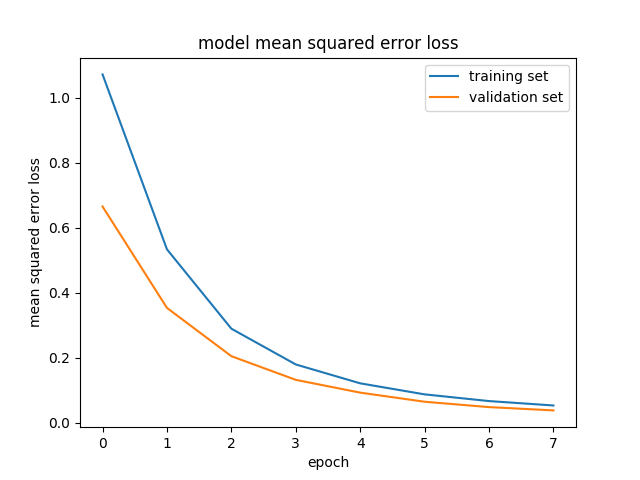
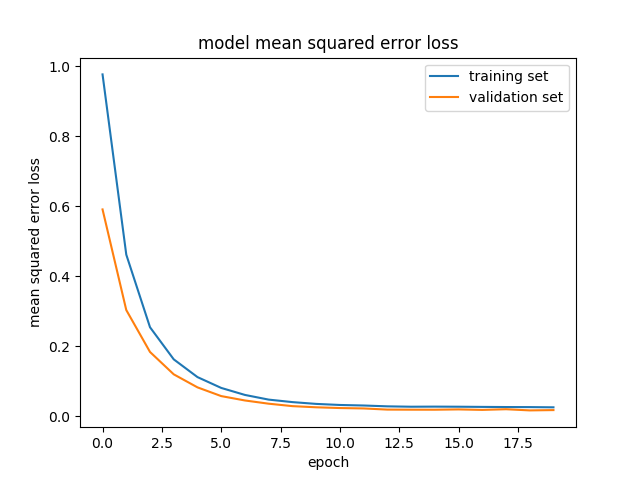
wip

diff --git a/model.py b/model.py
@@ -244,8 +244,8 @@ model.compile(loss='mse', optimizer='adam')
 
 model.summary()
 
-nb_epoch = 8
-samples_per_epoch = len(train_observations)
+nb_epoch = 20
+samples_per_epoch = 20000
 nb_val_samples = len(train_observations)*0.20
 
 history_object = model.fit_generator(train_generator, samples_per_epoch=samples_per_epoch, \
